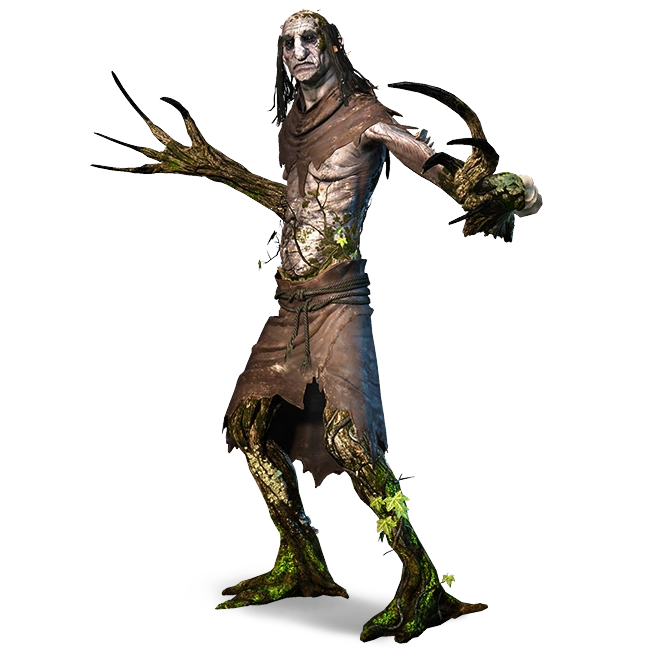
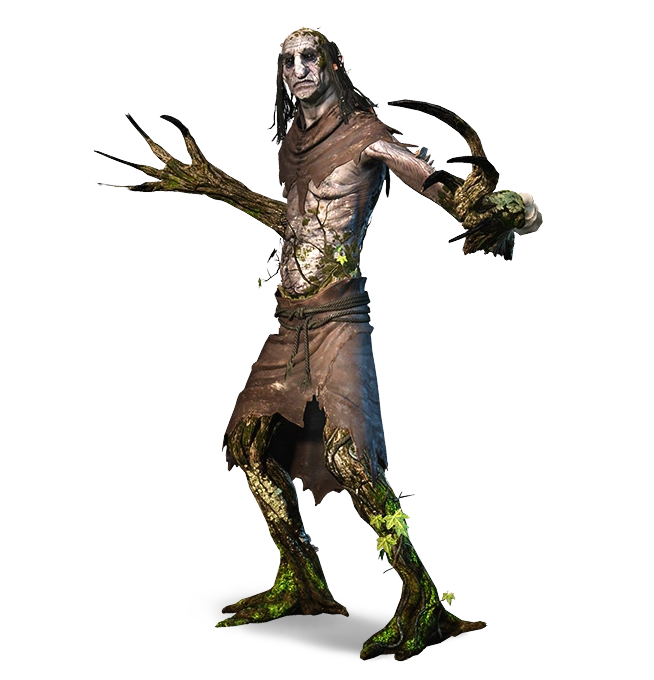
fix-img

Changed region(s): [[0.1529, 0.0, 0.8563, 0.9668]]

diff --git a/src/partials/bestiary/page-borovik/backdrop-gallery-wicher.html b/src/partials/bestiary/page-borovik/backdrop-gallery-wicher.html
@@ -41,7 +41,7 @@
   <div class="container backdrop-borovik__container">
 
     <div class="borovik-modal borovik-modal_wich js-borovik-modal">
-      <img class="borovik-modal__img borovik-modal__img_wich js-borovik-modal-img-wich" src="#" alt="404">
+      <img class="borovik-modal__img borovik-modal__img_wich js-borovik-modal-img-wich" src="#" alt="borovik">
     </div>
 
     <ul class="backdrop-borovik-gallery_small small-gallery small-gallery_wich js-small-gallery-wich">

diff --git a/src/sass/components/_backdrop-gallery.scss b/src/sass/components/_backdrop-gallery.scss
@@ -91,4 +91,5 @@
 .borovik-modal__img_wich {
   object-position: center top;
   object-fit: cover;
+  background-color: rgba(0, 0, 0, 0.954);
 }
